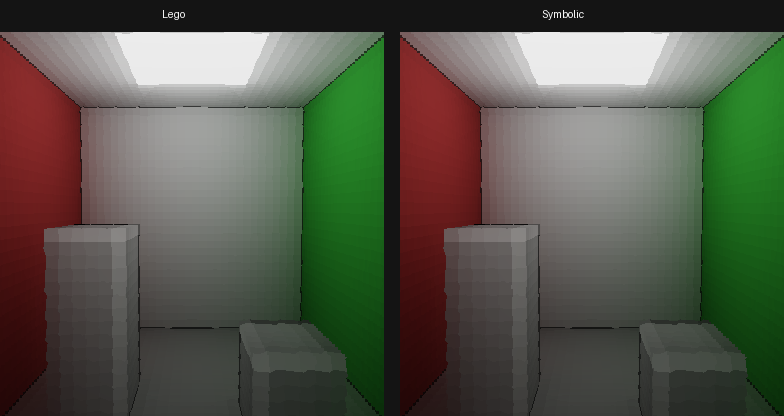
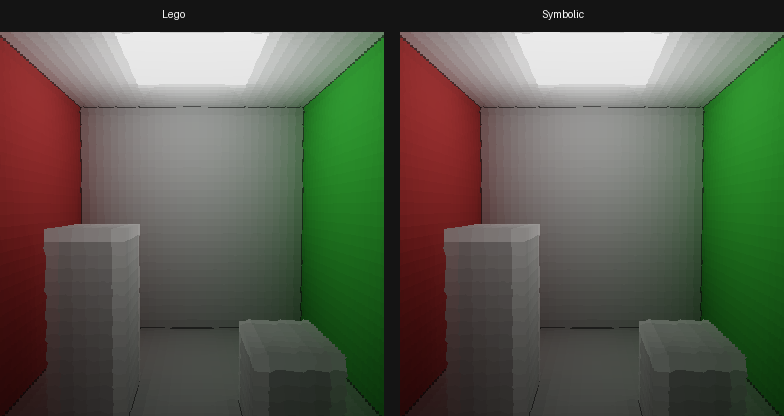
Entry-face detection at hit — fixes box-edge dark outlines
The dark outline around object silhouettes was edge cells with composite
normals. At the corner where a box's top face meets its side face, my
compute_normals returned (+Y + -Z)/sqrt(2) (averaging the two empty-
neighbor directions). The Lambertian rule then split the SH l=1 coefficient
across both axes — each axis getting K1/sqrt(2) instead of K1 — so the
SH evaluation in any single direction came out ~30% dimmer than the
adjacent face cells. Visible as a thin dark band tracing each silhouette.

Fix: at render time, ignore the cell's stored composite normal and detect
which face the ray *actually* entered. The axis with the smallest
"just-crossed" depth (frac if ray>0, 1-frac if ray<0) is the entry axis;
the face normal is opposite the ray motion on that axis. Edge cells
then render with the appropriate face normal depending on whether the
ray came in through the top or side, and they match the adjacent face
cells in brightness.

Also: LIGHT cells override entry-face detection with normal=-Y. A
ceiling lamp emits only downward; a ray grazing through the side of
a LIGHT cell would otherwise get a sideways "lamp normal" and render
sideways emission, producing a streaked pattern on the ceiling.

Same Lego, same propagation, same byte equivalence. Rendering only.

diff --git a/cornell_3d_sh.py b/cornell_3d_sh.py
@@ -332,7 +332,61 @@ def render_perspective(materials_np, outgoing_np, view_W=384, view_H=384,
                     ix_safe[hit_idx], iy_safe[hit_idx], iz_safe[hit_idx]
                 ]                                          # (n_hit, 4, 3)
                 back = -ray_dir[hit_idx]                   # (n_hit, 3)
-                img[hit_idx] = sh_evaluate_4(cell_sh, back)
+                hit_pos = pos[hit_idx]                     # (n_hit, 3)
+                hit_dir = ray_dir[hit_idx]                 # (n_hit, 3)
+                hit_mat = mat[hit_idx]
+
+                # Entry-face detection for sharp voxel rendering. The
+                # axis the ray crossed most recently (smallest depth into
+                # the new voxel along the ray direction) is the entry
+                # axis. The face normal is opposite to ray motion on
+                # that axis. This ignores the cell's stored composite
+                # normal, which would otherwise spread the SH l=1 contribution
+                # over multiple axes and dim edge cells visibly.
+                ipos = np.floor(hit_pos)
+                frac = hit_pos - ipos                       # (n_hit, 3) in [0, 1)
+                ray_signs = np.sign(hit_dir)
+                # depth-into-voxel along the entry direction:
+                #   ray going +axis: small frac == just crossed (low)
+                #   ray going -axis: 1-frac == just crossed
+                depths = np.where(ray_signs > 0, frac, 1.0 - frac)
+                # Pure-zero ray components shouldn't be selected.
+                depths = np.where(ray_signs == 0, np.inf, depths)
+                entry_axis = np.argmin(depths, axis=-1)     # (n_hit,)
+                face_n = np.zeros_like(hit_dir)
+                for ax in range(3):
+                    m = (entry_axis == ax)
+                    face_n[m, ax] = -ray_signs[m, ax]
+
+                # LIGHT cells: a ceiling lamp emits only in -Y, not
+                # sideways. If a ray grazes the lamp through a side
+                # face, entry-face detection would assign a sideways
+                # normal — which together with the lamp brightness
+                # formula would render an artifact. Override.
+                is_light_hit_mask = (hit_mat == LIGHT)
+                face_n[is_light_hit_mask] = np.array([0, -1, 0], dtype=np.float32)
+
+                # Front-hemisphere visibility against the face normal.
+                front_dot = (back * face_n).sum(axis=-1, keepdims=True)
+                visible = front_dot > 0
+
+                c0 = cell_sh[:, 0, :]                       # (n_hit, 3)
+
+                # SOLID: constant Lambertian radiance V = c_0 / sqrt(pi)
+                # in the hemisphere of the face normal.
+                solid_radiance = np.where(visible, c0 / SQRT_PI, 0.0)
+
+                # LIGHT: Lambertian emitter, peak at face-normal direction.
+                # E_max = 2·c_0 / sqrt(pi). L(back) = E_max · max(0, back·n).
+                e_max = 2.0 * c0 / SQRT_PI
+                light_radiance = np.where(visible,
+                                          e_max * np.maximum(0, front_dot),
+                                          0.0)
+
+                is_light_hit = (hit_mat == LIGHT)[:, None]
+                img[hit_idx] = np.where(
+                    is_light_hit, light_radiance, solid_radiance
+                )
                 alive &= ~hit
 
         pos += ray_dir * step
